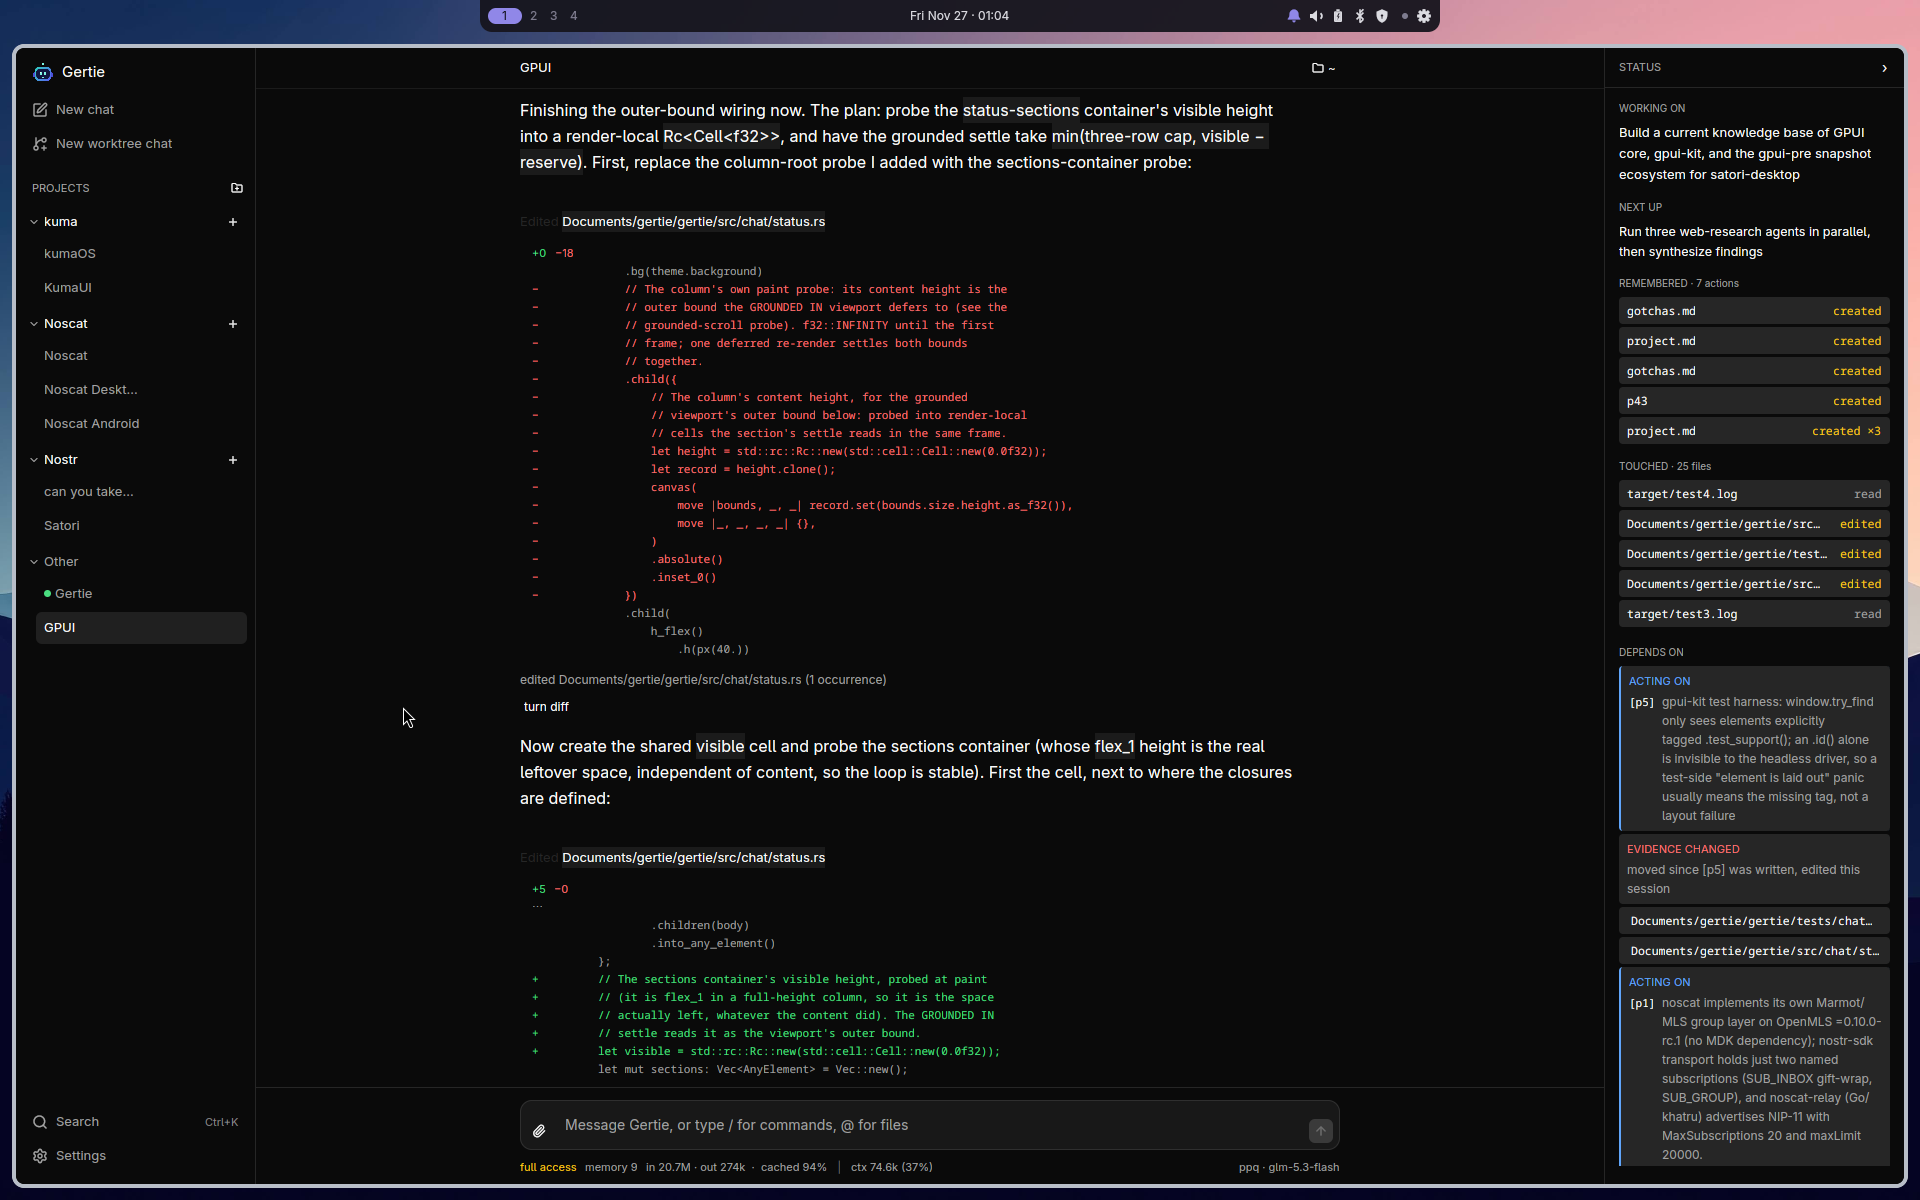
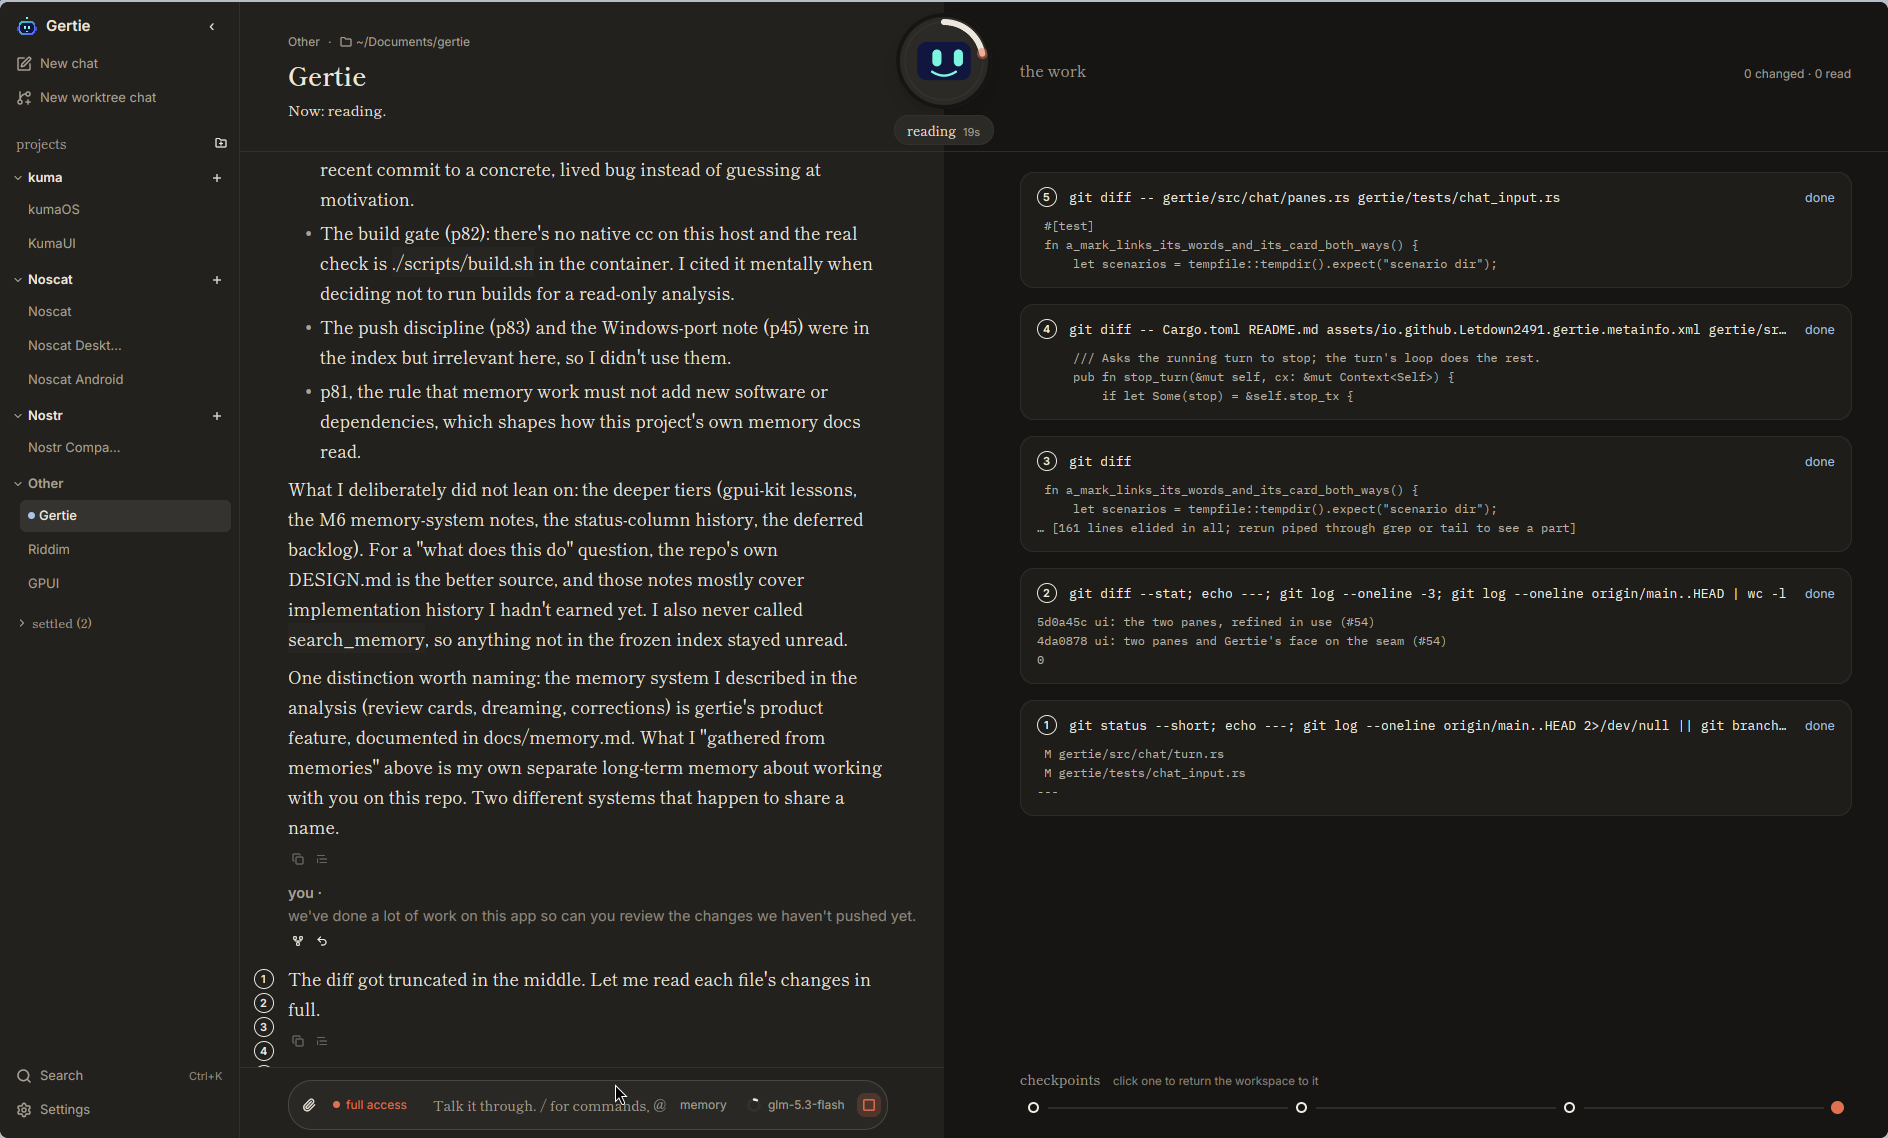
release: 2.0.0

diff --git a/README.md b/README.md
@@ -124,12 +124,18 @@ Keys resolve from the environment first (`MY_API_KEY` above); a local server nee
 no key at all.
 
 **Memory and instructions**: Gertie remembers across sessions. Facts it proposes at
-session end land as review cards you approve or deny; rules that must always apply go
+session end land as a seal in the conversation you keep, edit or let go, and the
+memory panel shows everything it remembers, where each entry came from, and what needs
+a look; rules that must always apply go
 in `AGENTS.md` at the repo root (or `~/.config/gertie/AGENTS.md` for global ones). An
 `AGENTS.md` in a subdirectory scopes its rules to that part of the tree: Gertie loads it
 the first time it reads or edits a file under it. All are plain markdown you can edit by
 hand. [docs/memory.md](docs/memory.md)
 explains the whole system, including the weekly cleanup pass ("dreaming").
+
+<p align="center">
+  <img src="assets/gertie-memory.png" alt="Gertie's memory panel beside the work: entries needing a look, each with where it came from and still true, wrong, edit and forget" width="960">
+</p>
 
 `config.example.toml` documents everything else: wire selection (`openai` |
 `anthropic`), fallback endpoints, MCP servers, custom agents, search backends,
@@ -158,9 +164,9 @@ version of this whole list.
 
 ## Status
 
-**1.4.1**, with the two-panes redesign (#54) coming in the next release: words and
-work side by side, Gertie's face on the seam, the composer carrying its own controls,
-and memory you can read and correct from the chat. Earlier releases brought the memory
+**2.0.0**: the two-panes window (#54). Words and work side by side, Gertie's face on
+the seam, the composer carrying its own controls, and memory you can read and correct
+from the chat. Earlier releases brought the memory
 trust arc (superseded entries point at their replacement, recall fires on touch,
 corrections flag what rested on them), the repo map, the project check before a turn
 ends, and screenshots the agent can look at. Feature-complete against
